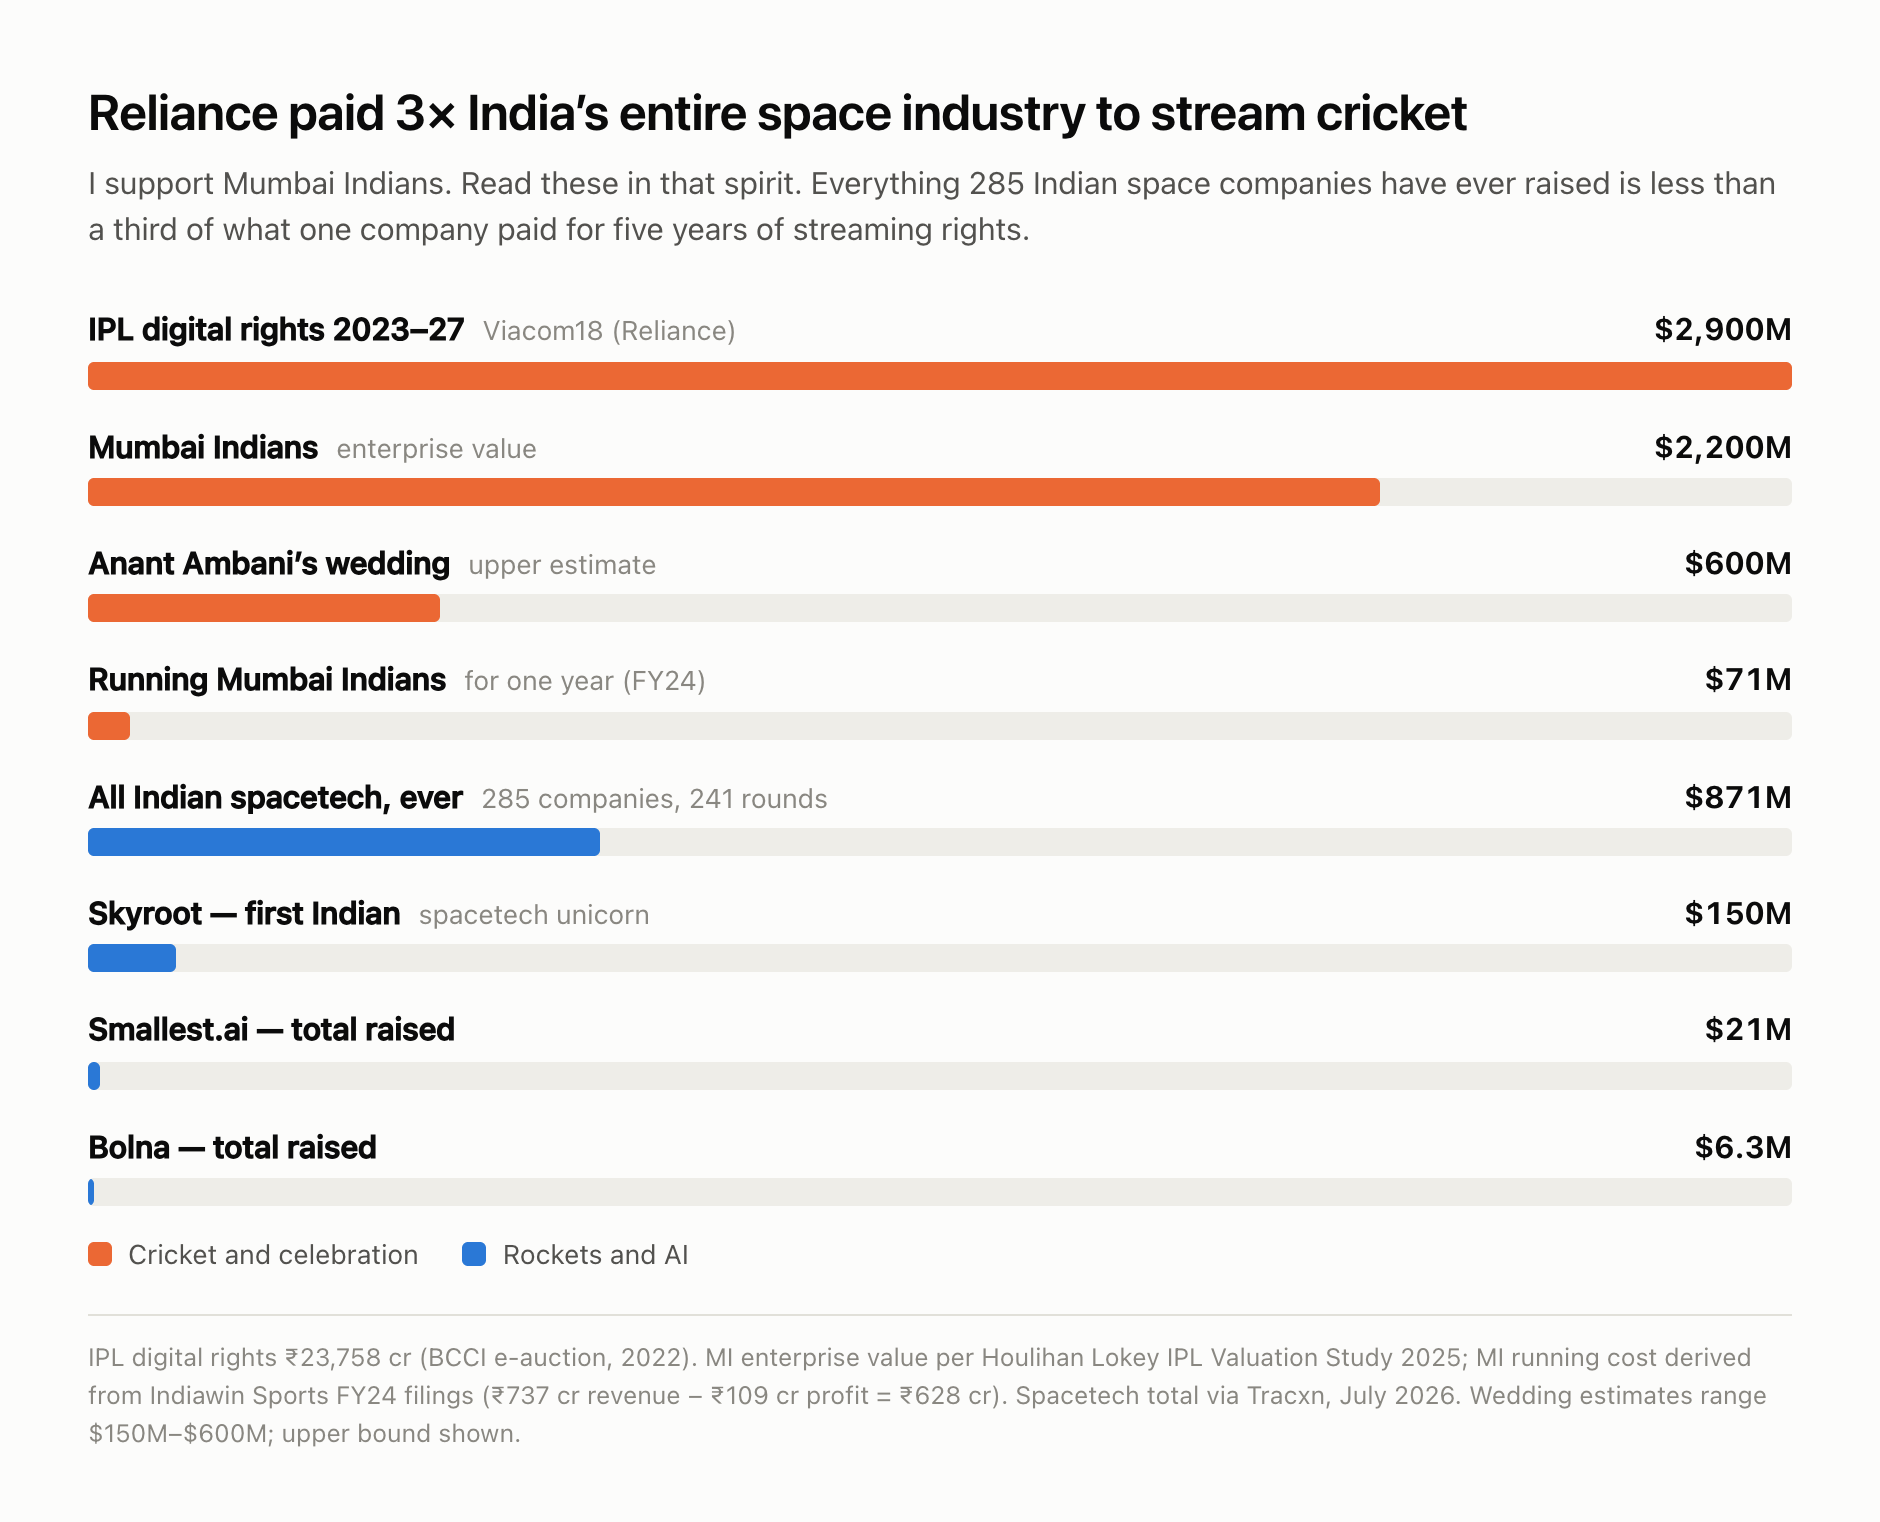
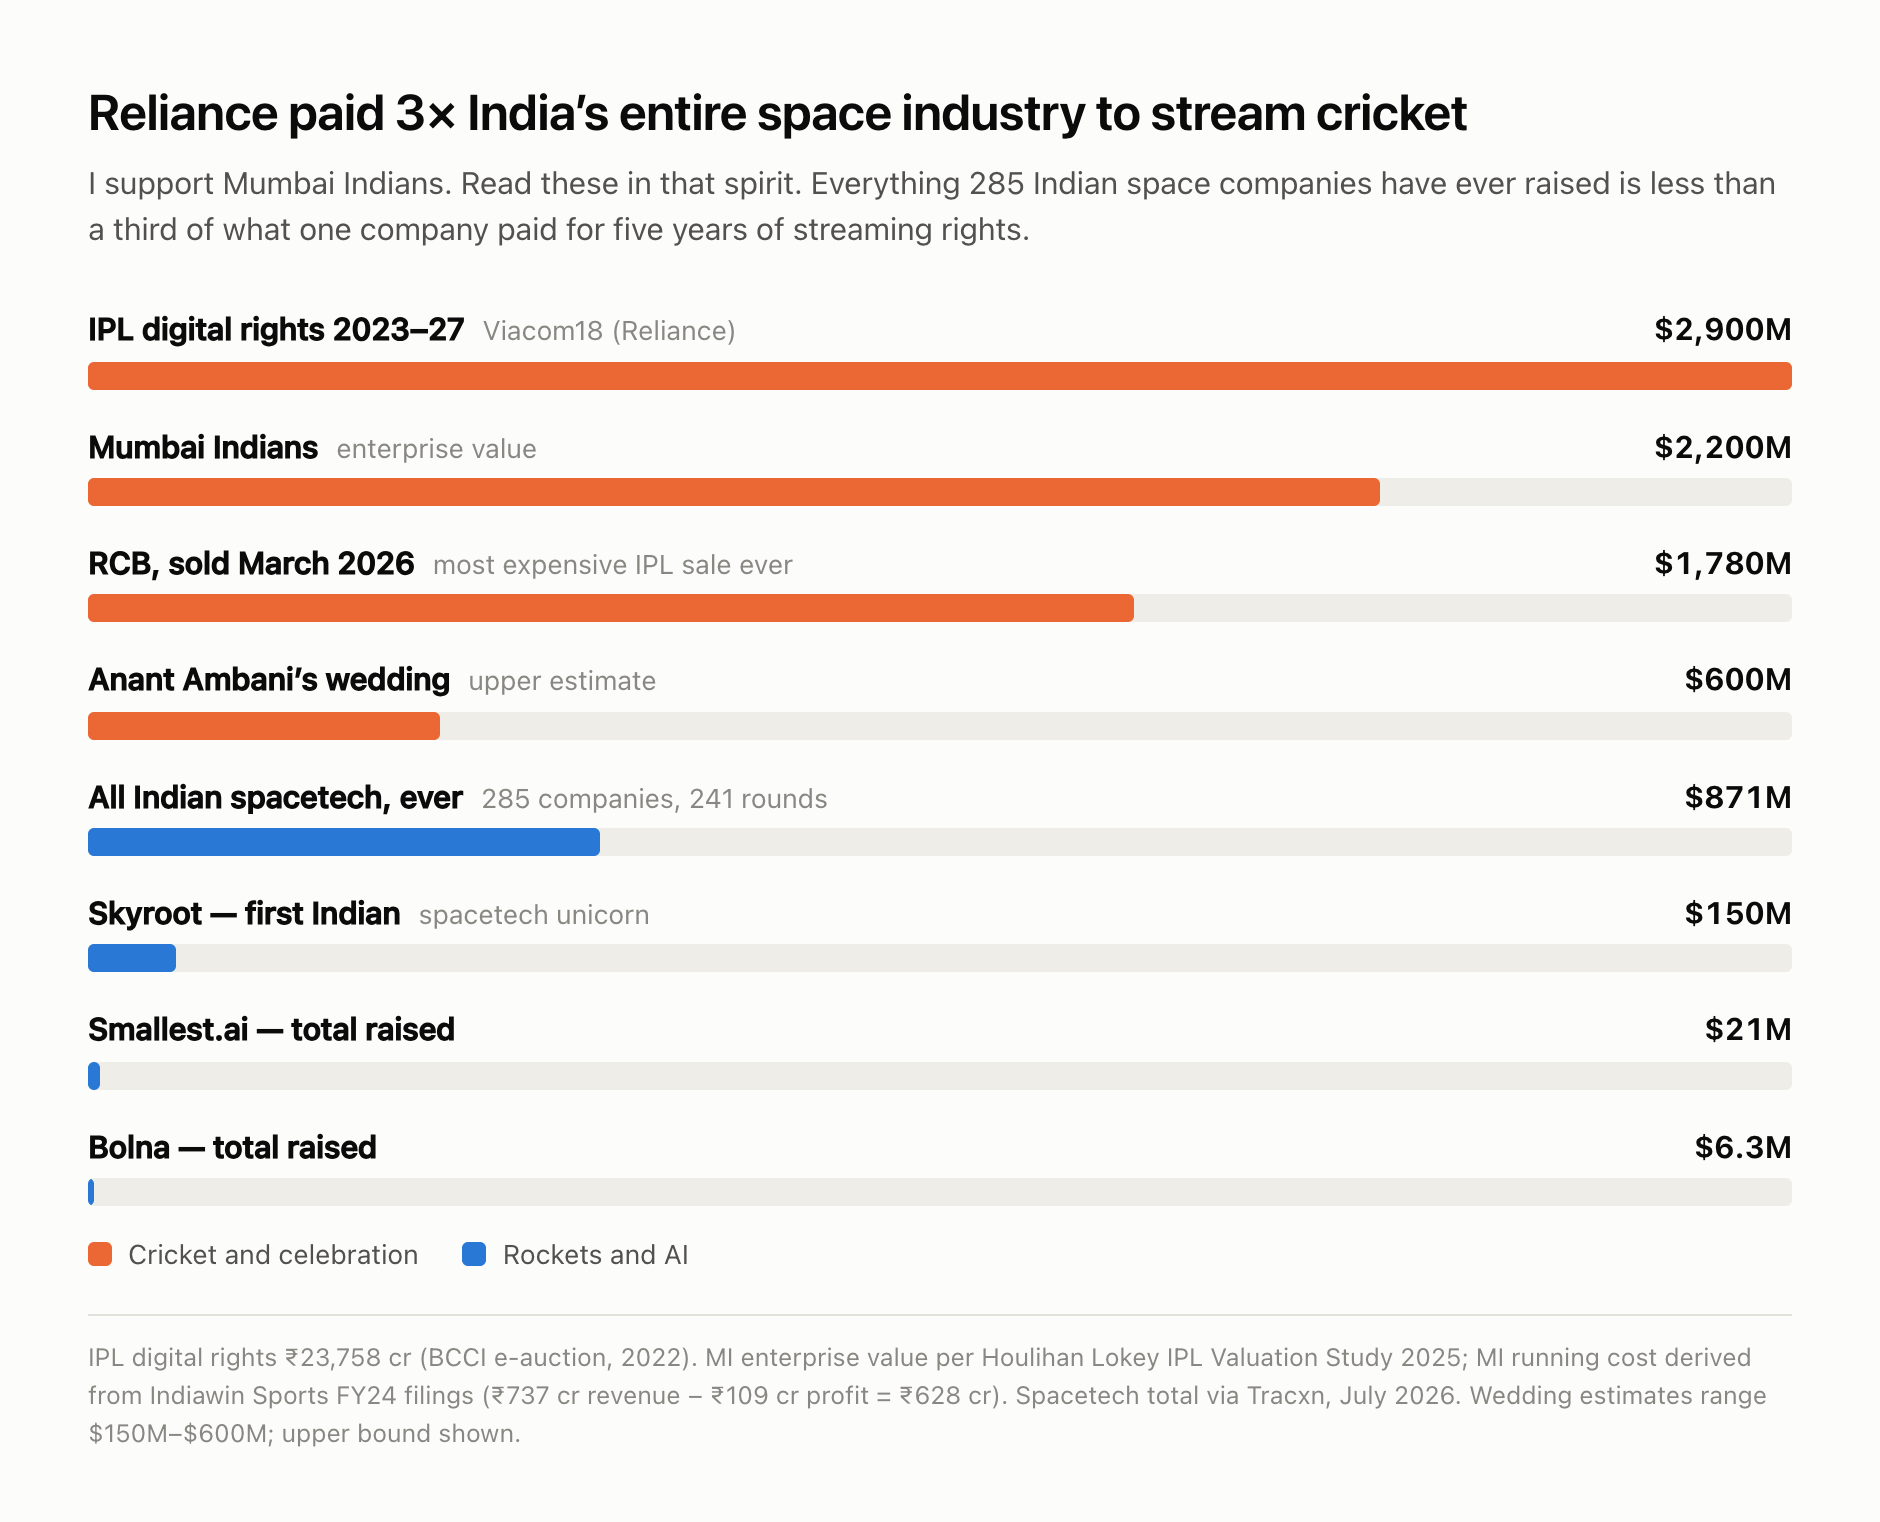
Structural pass: fold Krutrim in, unstrand Skyroot, de-duplicate cricket
- Krutrim was a four-sentence orphan section ending on "the lesson
  everyone else took from it is the wrong one" without ever saying what
  either lesson was. Folded into the Sarvam section as the pre-empted
  objection, and the thought is now finished: ₹2,000 crore is $227m,
  less than Sarvam's round, for chips and models at once — he didn't
  prove it's impossible, he proved $227m doesn't buy a seat.

- Skyroot was a ### subsection under a heading about salaries and
  coming home, but it's about who funds rockets, not who leaves. Now
  its own section, leading into the money argument.

- Cricket and the heirs list ran the same comparison against the $871m
  spacetech figure. Cricket now holds all the cricket numbers including
  RCB; the heirs section keeps the roster and the commodities thesis
  and drops the duplicate. Chart updated to match: RCB in, the unused
  MI running-cost row out.

- Sarvam's round stated once up front instead of corrected mid-sentence.
- Cut the decorative "another fortnight of party" line; its footnote
  now just carries the estimate range.

Changed region(s): [[0.0309, 0.3397, 0.617, 0.4941], [0.8947, 0.4323, 0.9564, 0.4632], [0.8947, 0.3397, 0.9255, 0.4014]]

diff --git a/_posts/2026-08-01-theyll-spend-anything.md b/_posts/2026-08-01-theyll-spend-anything.md
@@ -164,27 +164,27 @@ Set all of that against India's share of global AI funding — every company, ev
 
 ## Our one champion runs on government GPUs
 
-Sarvam raised $234 million in June 2026 at a $1.5 billion valuation, HCLTech leading with $150 million. That's real and I'm glad it happened. Roshni Nadar Malhotra wrote that cheque and she is, as far as I can tell, the only heir in this country doing anything at the frontier.
+In June 2026 Sarvam closed the first $234 million of a $300 million Series B, at a $1.5 billion valuation, with HCLTech leading at $150 million. That's real and I'm glad it happened. Roshni Nadar Malhotra wrote that cheque and she is, as far as I can tell, the only heir in this country doing anything at the frontier.
 
 Sarvam-105B was trained on **1,000+ H100s from the government's Yotta cluster**, under IndiaAI's 4,000-GPU allocation. Our flagship private AI company trains on state compute.
 
-And here is the easy version of everything I am asking for.
+Before the obvious objection: somebody did try, with his own money, and it didn't work.
+
+Bhavish Aggarwal put ₹2,000 crore into Krutrim in February 2025 and promised ₹10,000 crore more. He was designing chips and training models at the same time. By May 2026 Krutrim had paused both and pivoted to selling cloud.
+
+He tried, and he ate the loss in public, which is more than anyone else on that rich list has risked. But look at the number he tried with. ₹2,000 crore is $227 million — less than Sarvam's single funding round, for a programme attempting chips *and* foundation models. He didn't discover that this is impossible. He discovered that $227 million doesn't buy you a seat at that table.
+
+Everyone else read it as *see, frontier tech doesn't work here.* What it actually showed is that he was underfunded by an order of magnitude, in a country where one man could have closed that gap and not noticed.
+
+And that is the easy version of everything I am asking for.
 
 They don't have to build anything. Nobody has to hire a research org from scratch, or buy a fab, or learn what a transformer is. Sarvam already exists. It has the people, it has models shipping, it just doesn't have money at the scale the work needs — which is why it's training on the government's GPUs.
 
-Sarvam's entire Series B is **$300 million** — and that's the full round; the June first close was $234 million. Mukesh Ambani could put in triple the whole round and not feel it leave. A **$1 billion** cheque into Sarvam is **0.9% of his net worth**, and it would make Sarvam one of the best-funded labs outside America and China overnight.
+The whole round is **$300 million.** Mukesh Ambani could put in triple that and not feel it leave. A **$1 billion** cheque into Sarvam is **0.9% of his net worth**, and it would make Sarvam one of the best-funded labs outside America and China overnight.
 
 That's the whole ask. Fund the thing that already works. Let them buy their own GPUs.
 
 And it wouldn't stop there, which is the actual point. Roshni Nadar wrote one $150 million cheque and made Sarvam a unicorn in an afternoon. One more of those from a bigger balance sheet and funding frontier research becomes a normal thing that Indian business houses do — and the next twenty-six-year-old with a good idea doesn't have to fly to Khosla Ventures to get started.
-
-## The guy who actually tried, and quit
-
-Bhavish Aggarwal announced ₹2,000 crore into Krutrim in February 2025, promised ₹10,000 crore more, and started designing chips.
-
-By May 2026, Krutrim had **paused chip design and foundation-model work** and pivoted to selling cloud.
-
-I want to say this clearly: he tried. He tried harder than anyone else on that rich list, and he ate the loss publicly. The lesson everyone else took from it is the wrong one.
 
 ## The landlord bet
 
@@ -232,7 +232,7 @@ And the fixable part is the one nobody tried.
 
 That offer has never been made. Not once, by anyone on the rich list. So our people stay where the work is, and we tell ourselves it's a brain drain problem, as if brains drain by themselves.
 
-### Two weeks ago we were all very proud
+## Two weeks ago we were all very proud
 
 On 18 July 2026, Skyroot's Vikram-1 reached orbit from Sriharikota — the first privately built Indian rocket to do it, making India the third country in the world with private orbital launch capability, after the United States and China. Everyone posted about it. I posted about it.
 
@@ -244,18 +244,18 @@ Not one Indian conglomerate. Not one. Singapore's state investors[^singapore] pu
 
 ## Cricket
 
-I support Mumbai Indians. Please read the next four numbers in that spirit.
+I support Mumbai Indians. Read the next four numbers in that spirit.
 
 - Reliance's Viacom18 paid **₹23,758 crore (~$2.9 billion)** for IPL digital rights, 2023–27.
-- MI's enterprise value: **$2.2 billion.**[^mi]
-- Running MI for one year, FY24: revenue ₹737 crore, profit ₹109 crore, so about **₹628 crore (~$71 million)** in costs.
-- Everything Indian spacetech has ever raised: **$871 million.**
+- An Aditya Birla-led consortium bought Royal Challengers Bengaluru outright in March 2026 for **$1.78 billion**, the most expensive team sale in the league's history.
+- Mumbai Indians' enterprise value: **$2.2 billion.**[^mi]
+- Everything India's private space industry has raised since it was legally allowed to exist: **$871 million.**
 
-Reliance paid three times our entire private space industry's lifetime funding for the right to *stream a cricket tournament.*
+Reliance paid three times the entire space industry for the right to *stream* a cricket tournament. The Birlas paid twice it for one team.
 
 ![Cricket money vs deep-tech money](/assets/images/posts/theyll-spend-anything/08-cricket-vs-deeptech.png)
 
-And Anant Ambani's wedding: estimates run **$150 million to $600 million** across four months of events. At the figure everyone quotes, that is about **70% of every rupee India's private rocket industry has raised in its entire existence.** Another fortnight of party and you'd have bought the whole sector outright.[^wedding]
+And Anant Ambani's wedding: estimates run **$150 million to $600 million** across four months of events. At the figure everyone quotes, that is about **70% of every rupee India's private rocket industry has raised in its entire existence.**[^wedding]
 
 It's his money and his son and I genuinely don't care how anybody celebrates a wedding. What I'm pointing at is the divide. In the same country, in the same decade, one family can spend more on a party than an entire industry of engineers can raise to build rockets — and the engineers have to go to Singapore to get funded. That gap isn't a coincidence or bad luck. It is the same decision, made over and over, about what deserves money here.
 
@@ -280,8 +280,6 @@ Look at what those businesses have in common and you find the whole thesis of th
 Every single one is a business where somebody else has already demonstrated that the money is there. You are buying a known payoff at a negotiated price. There is no version of a cement plant where you spend four years and find out the thing doesn't work.
 
 That's the actual pattern. Not stinginess — they spend colossally. Our richest families are commodity traders and shopkeepers at scale, extremely good at both, and they will deploy tens of billions the moment the return is arithmetic rather than a bet. Ask them to put a tenth of that into something where the honest answer is *we don't know if this will work*, and the money evaporates.
-
-And that RCB transaction deserves its own sentence, because it happened five months ago and nobody framed it this way: **one Indian business family spent $1.78 billion on a cricket team — more than twice everything India's private space industry has raised since it was legally allowed to exist.**
 
 I'll take the wildlife sanctuary over most things billionaires' children do, and running Jio is genuinely hard work. My problem isn't that any single item on that list is bad. It's the shape of the whole list.
 
@@ -404,7 +402,7 @@ Everything here is checkable. Go and check it. The numbered marks through the pi
 
 [^liang]: **Different index, different date — treat the placement as indicative.** The Indian figures are the Hurun Rich List 2026 (March 2026, converted at ₹88/\$); Liang's \$36.0bn is the Bloomberg Billionaires Index (July 2026), after DeepSeek's \$7.4bn round at a \$50bn valuation and assuming his ~78% holding. At \$36.0bn against Roshni Nadar Malhotra's \$36.4bn he is level with her, not clearly ahead — "third" here means the same bracket, not a verified league position.
 
-[^wedding]: **The fortnight is rhetorical rounding; the ratio is the real claim.** At the widely quoted \$600m upper estimate the wedding is 68.9% of the \$871m Indian private spacetech has raised — a gap of \$271m. The events ran across roughly four months in 2024, so "another fortnight" is a figure of speech for what that remaining \$271m would represent, not a costed figure. Estimates run \$150m–\$600m; at the low end the comparison is 17% and I wouldn't make the point at all.
+[^wedding]: Estimates for the wedding run **\$150m–\$600m** across roughly four months of events in 2024 (pre-wedding in March, the cruise in May, the wedding itself in July); some outlets go as high as \$1bn. The 70% figure uses the \$600m upper estimate against \$871m of Indian private spacetech funding — 68.9%. At the \$150m low end it is 17%, and I wouldn't make the comparison at all.
 
 [^mi]: **Enterprise value, not brand value — two different numbers.** The Houlihan Lokey IPL Valuation Study 2025 puts Mumbai Indians' *institutional enterprise value* at \$2.2bn and its *standalone brand value* at \$242m. The larger figure is the business; the smaller is the brand alone. Both are in the same study.
 
